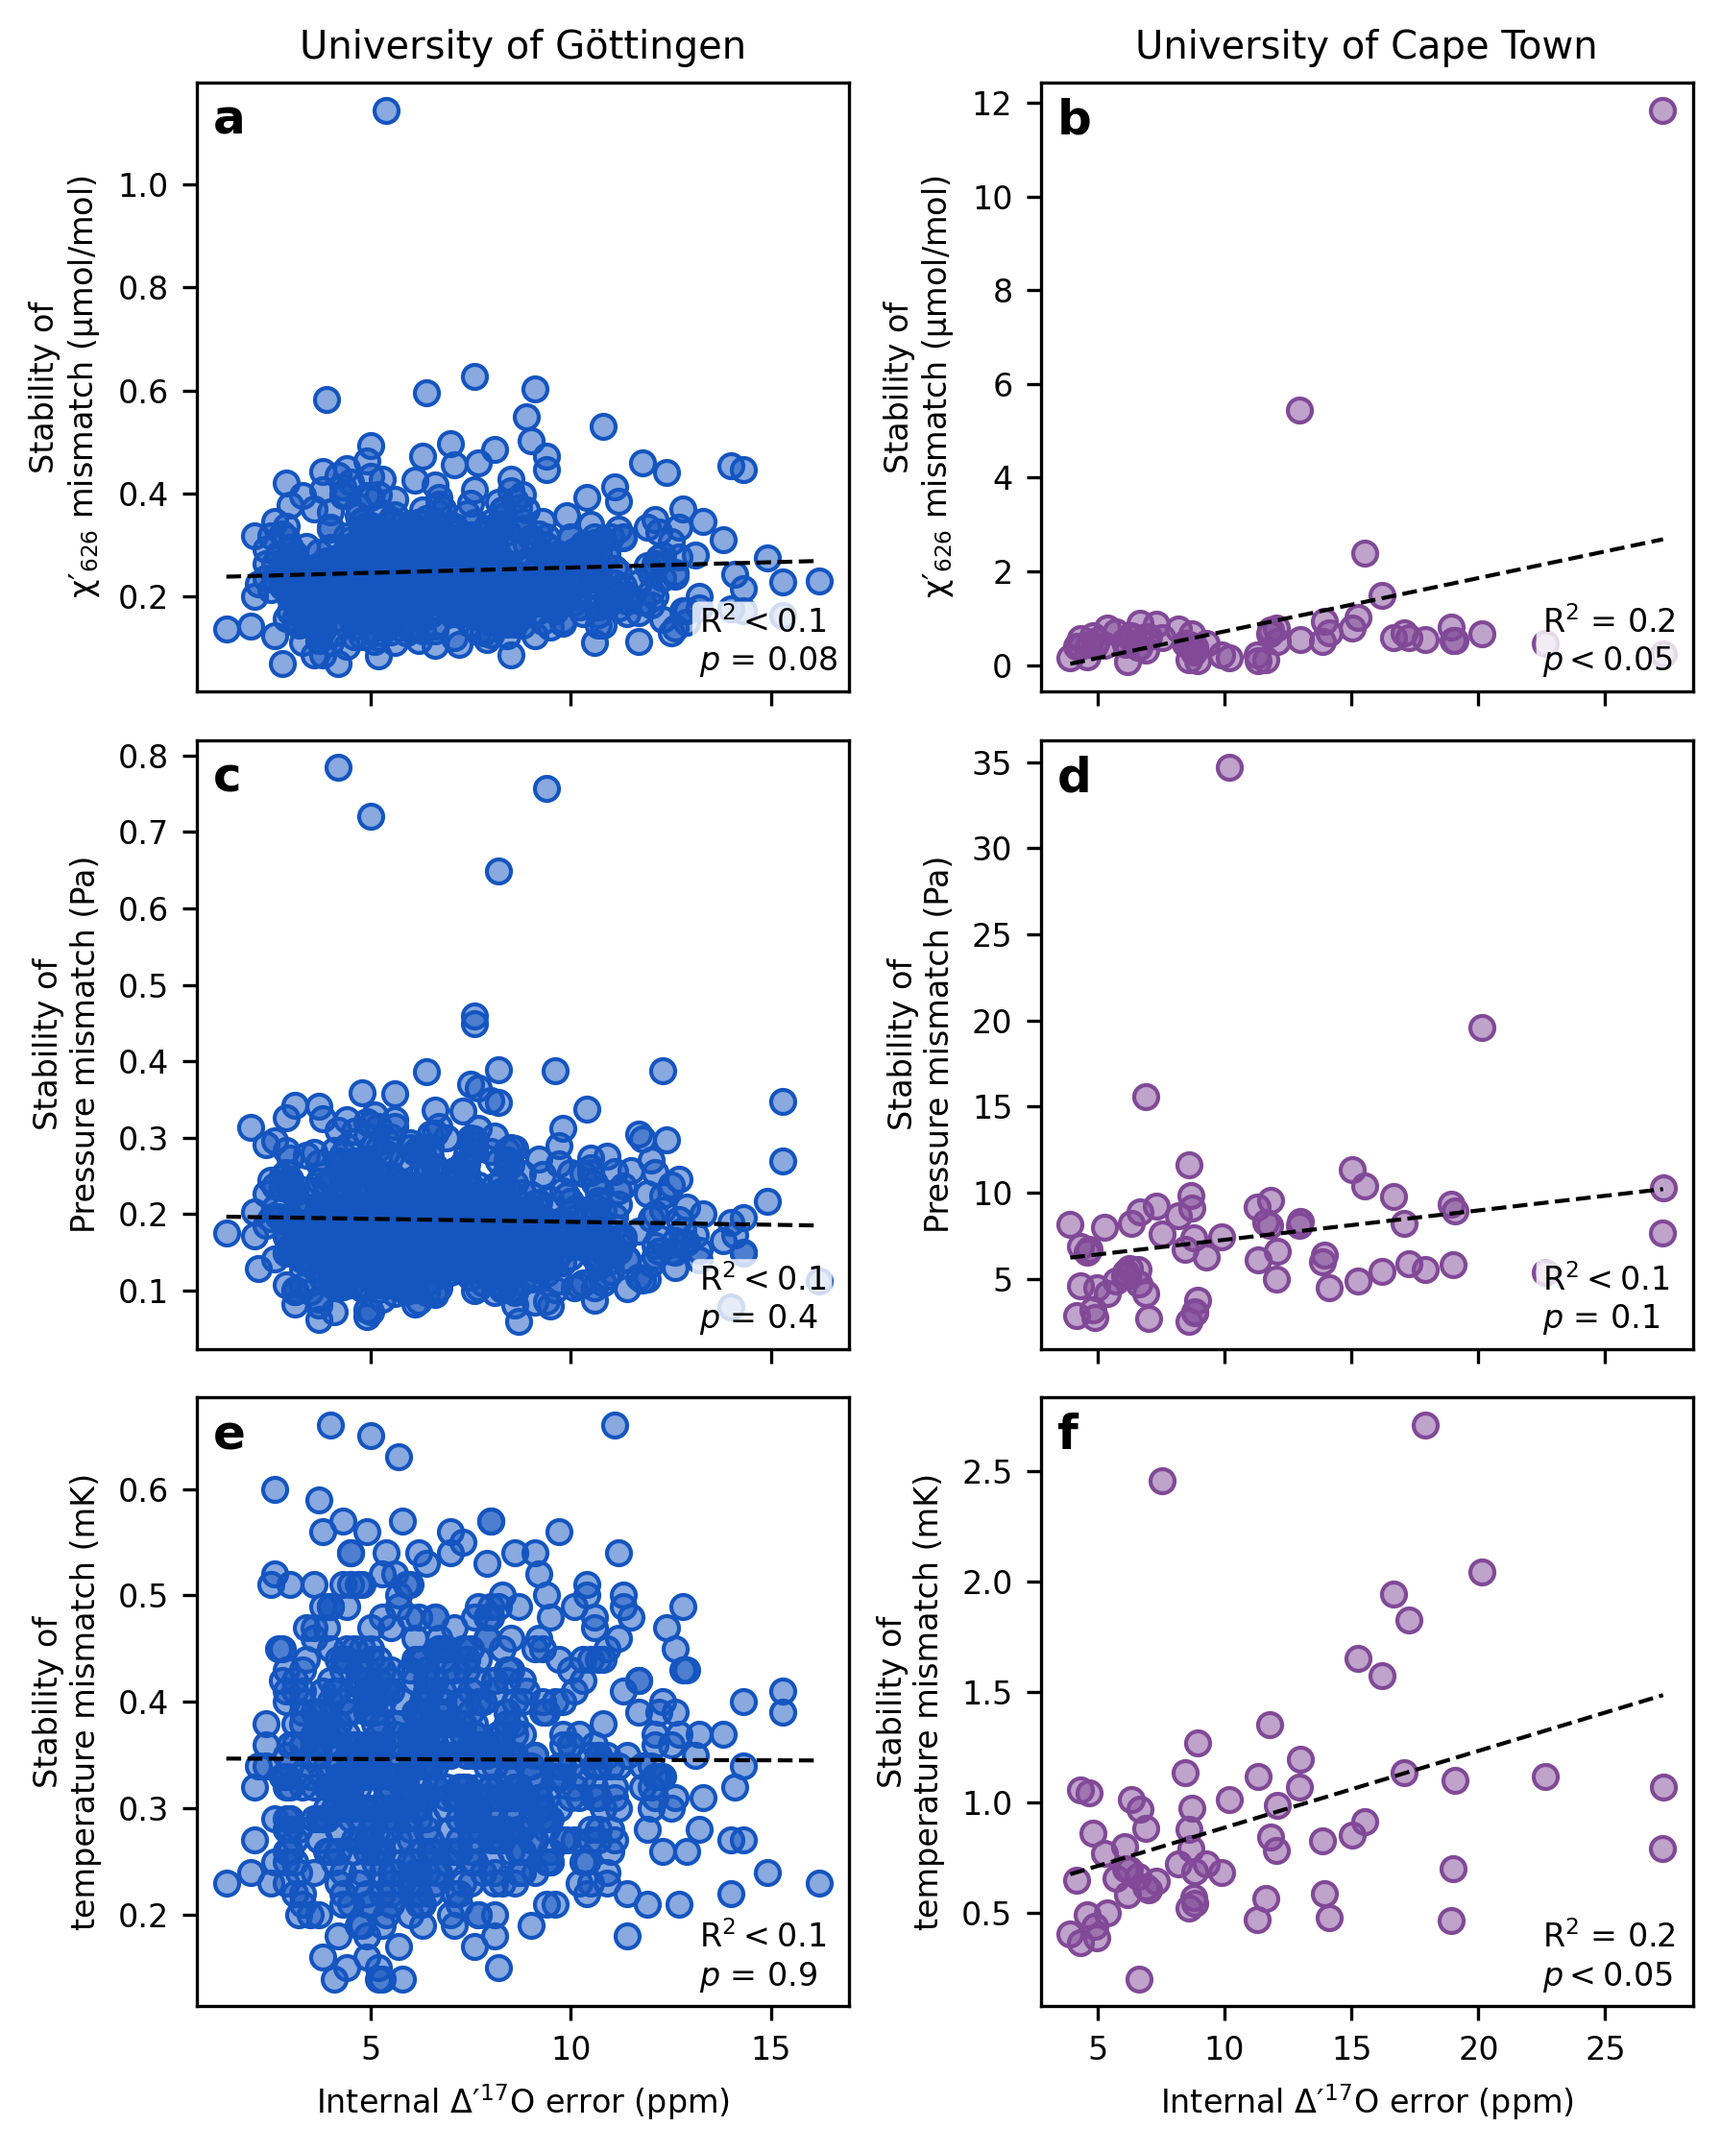
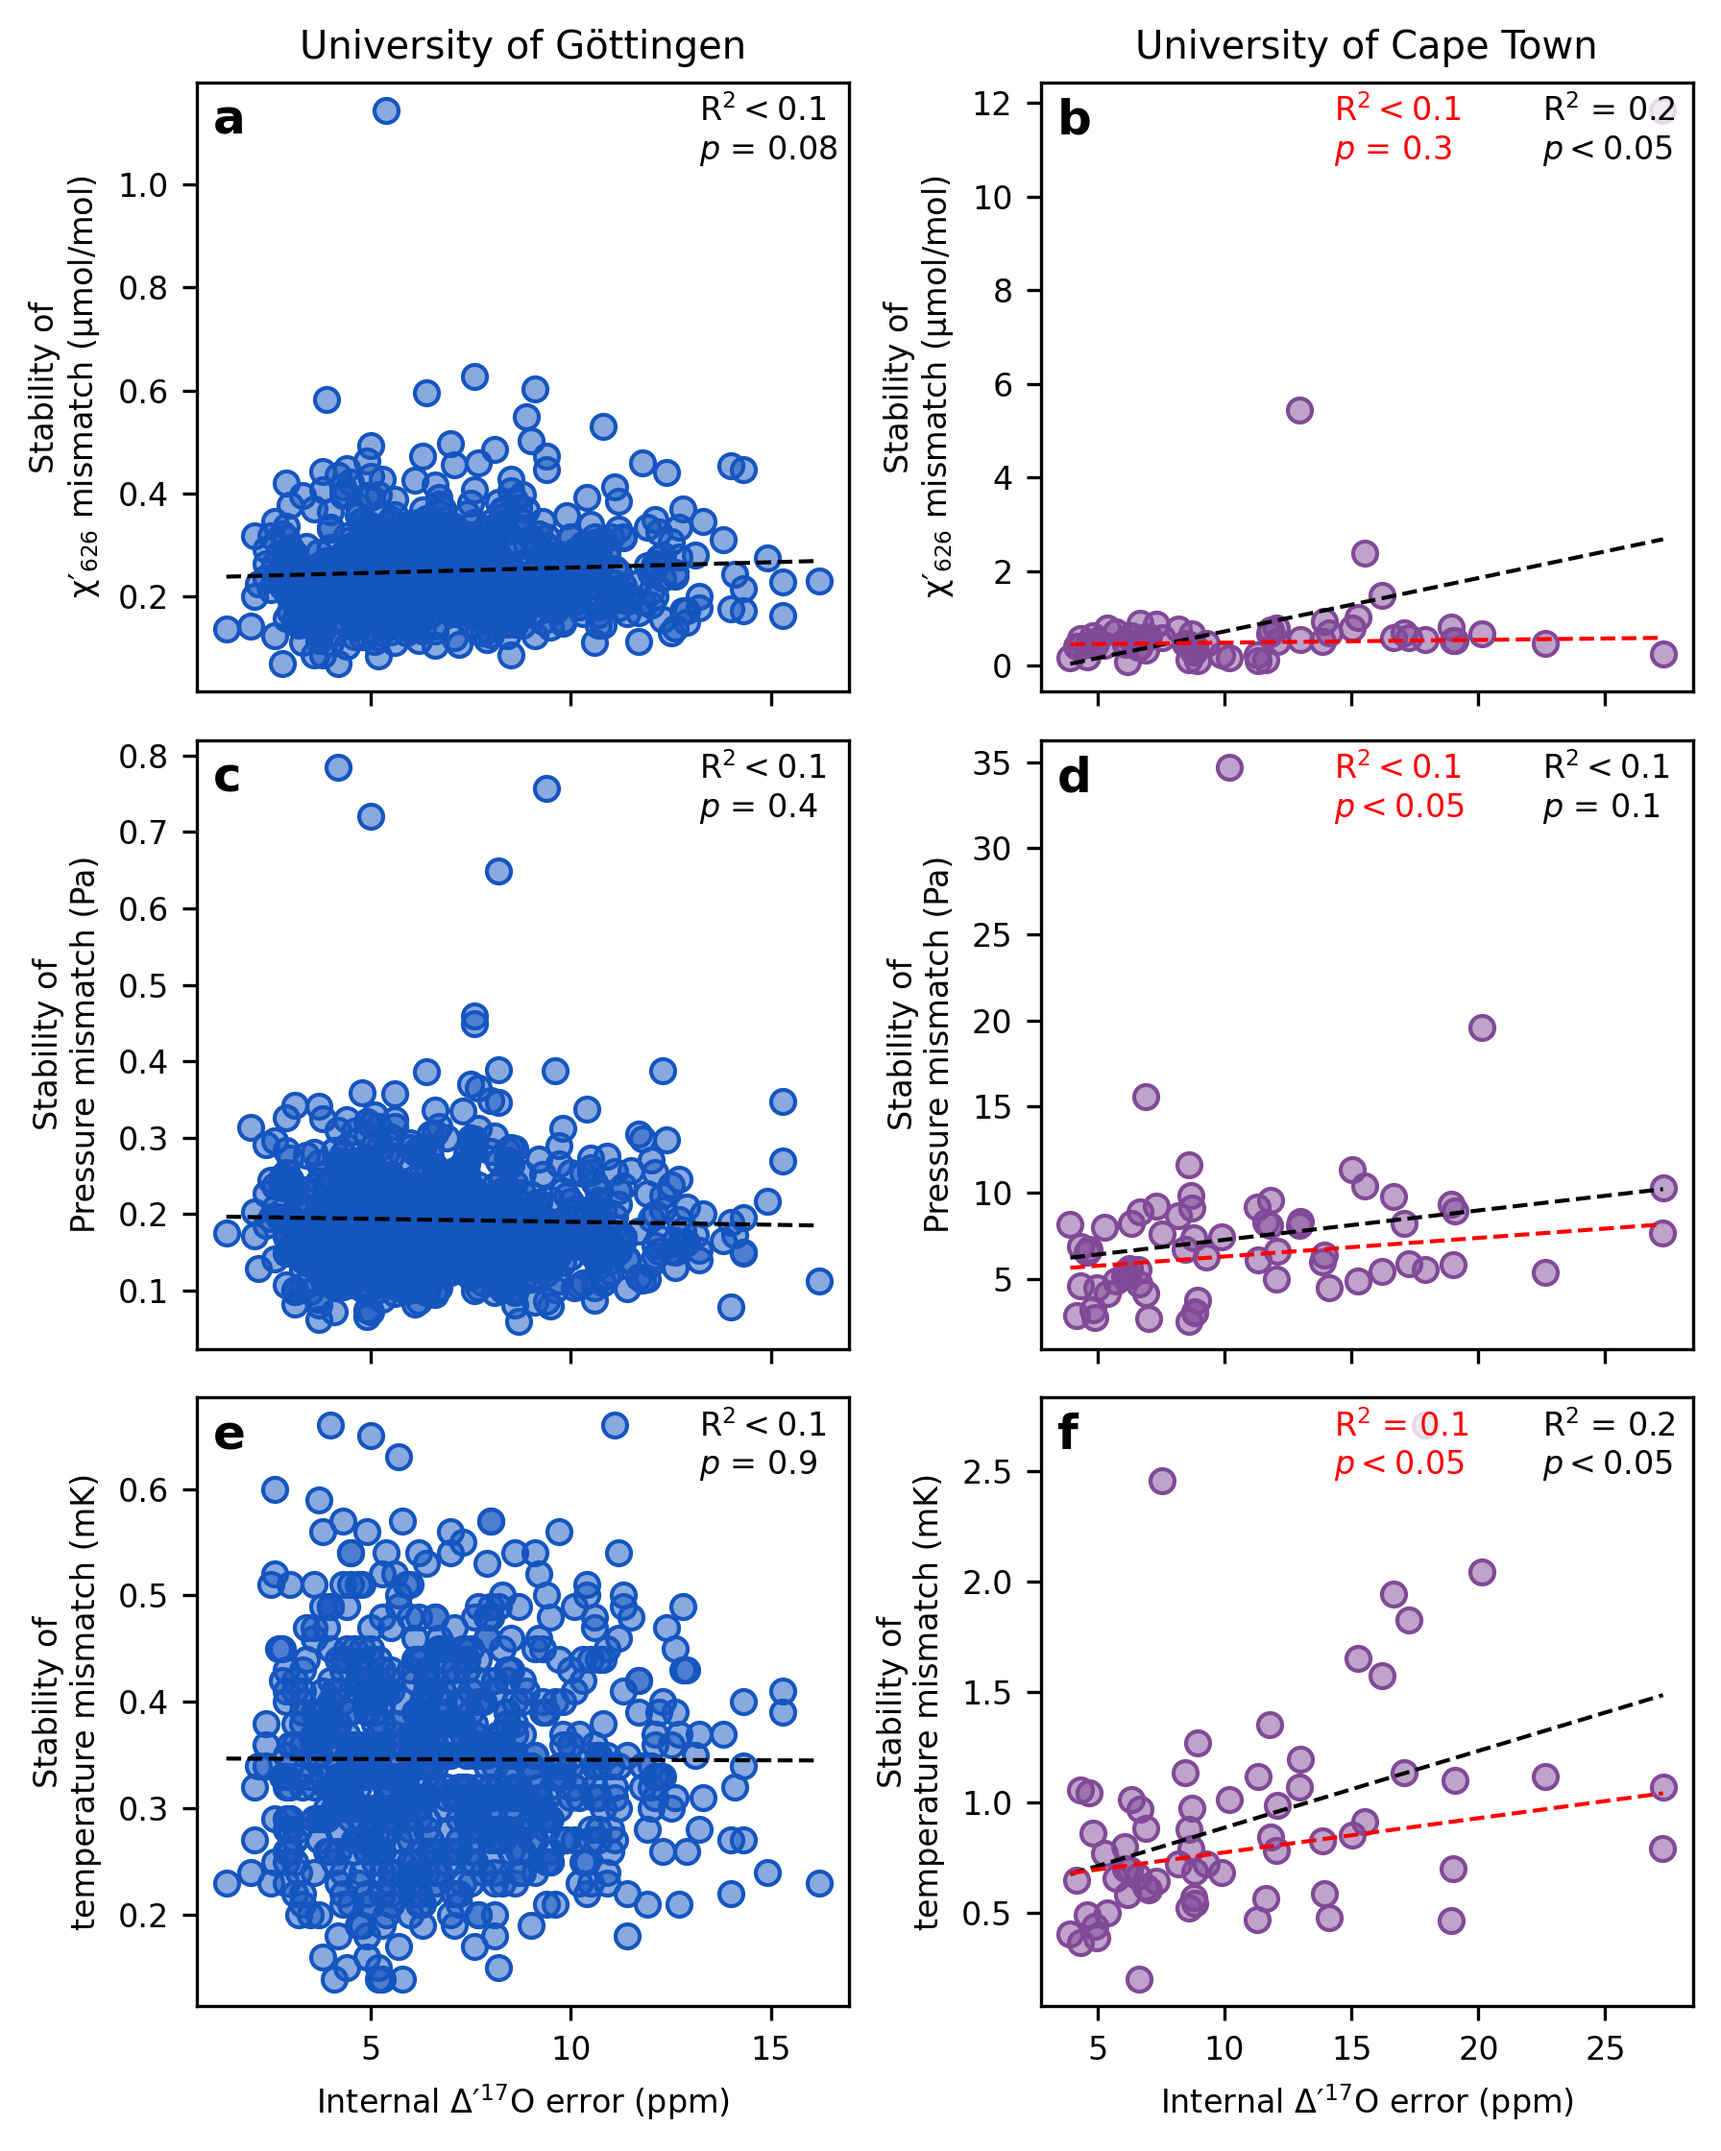
after coffee

diff --git a/codes/LT 3 lab stability.py b/codes/LT 3 lab stability.py
@@ -190,34 +190,77 @@ def add_linfit_and_stats(ax, x, y):
         p_str = r"$\it{p}$ = " + f"{p_value:.1g}"
 
     txt = f"{R2_str}\n{p_str}"
-    ax.text(0.77, 0.02, txt, transform=ax.transAxes,
-            va='bottom', ha='left', color="k",
+    ax.text(0.77, 0.98, txt, transform=ax.transAxes,
+            va='top', ha='left', color="k",
             bbox=dict(fc='white', alpha=0.8, ec='none', pad=0.2, boxstyle='round'))
 
 
+def add_linfit_and_stats_95(ax, x, y):
+
+    # Filter values to 95% in y
+    mask = y <= np.nanpercentile(y, 90)
+    x = x[mask]
+    y = y[mask]
+
+    # Linear fit
+    slope, intercept, r_value, p_value, std_err = linregress(x, y)
+    xx = np.array([np.nanmin(x), np.nanmax(x)])
+    yy = slope * xx + intercept
+    ax.plot(xx, yy, ls="--", c="r")
+    R2_val = r_value**2
+    if R2_val >= 0.1:
+        R2_str = r"$R^2$ = " + f"{R2_val:.1g}"
+    else:
+        R2_str = r"$R^2 < 0.1$"
+
+    if p_value < 0.05:
+        p_str = r"$\it{p} < 0.05$"
+    else:
+        p_str = r"$\it{p}$ = " + f"{p_value:.1g}"
+
+    txt = f"{R2_str}\n{p_str}"
+    ax.text(0.45, 0.98, txt, transform=ax.transAxes,
+            va='top', ha='left', color="r",
+            bbox=dict(fc='white', alpha=0.8, ec='none', pad=0.2, boxstyle='round'))
+    
+    print(f"90% filtered data maximum value: {y.max():.1f}")
+
+
+
+# Left column - Göttingen
 axes[0].scatter(df_ug['Dp17O_error'], df_ug['pCO2Mismatch_error'], 
                 facecolor="#1455C080", ec="#1455C0")
 add_linfit_and_stats(axes[0], df_ug['Dp17O_error'], df_ug['pCO2Mismatch_error'])
+print(f"UG, maximum x626 mismatch stability: {df_ug['pCO2Mismatch_error'].max():.1f} µmol/mol\n")
 
 axes[2].scatter(df_ug['Dp17O_error'], torr_to_pascal(df_ug['PCellMismatch_error']), 
                 facecolor="#1455C080", ec="#1455C0")
 add_linfit_and_stats(axes[2], df_ug['Dp17O_error'], torr_to_pascal(df_ug['PCellMismatch_error']))
+print(f"UG, maximum pressure mismatch stability: {torr_to_pascal(df_ug['PCellMismatch_error']).max():.1f} Pa, {df_ug['PCellMismatch_error'].max()*1000:.1f} mTorr\n")
 
 axes[4].scatter(df_ug['Dp17O_error'], df_ug['TCellMismatch_error']*1000, 
                 facecolor="#1455C080", ec="#1455C0")
 add_linfit_and_stats(axes[4], df_ug['Dp17O_error'], df_ug['TCellMismatch_error']*1000)
+print(f"UG, maximum temperature mismatch stability: {df_ug['TCellMismatch_error'].max()*1000:.0f} mK\n")
 
+# Right column - Cape Town
 axes[1].scatter(df_uct['Dp17O_error'], df_uct['std_mismatch_Xp626_L2']/1000, 
                 fc="#81499780", ec="#814997")
 add_linfit_and_stats(axes[1], df_uct['Dp17O_error'], df_uct['std_mismatch_Xp626_L2']/1000)
+add_linfit_and_stats_95(axes[1], df_uct['Dp17O_error'], df_uct['std_mismatch_Xp626_L2']/1000)
+print(f"UCT, maximum x626 mismatch stability: {df_uct['std_mismatch_Xp626_L2'].max()/1000:.1f} µmol/mol\n")
 
 axes[3].scatter(df_uct['Dp17O_error'], torr_to_pascal(df_uct['std_mismatch_Praw']), 
                 fc="#81499780", ec="#814997")
 add_linfit_and_stats(axes[3], df_uct['Dp17O_error'], torr_to_pascal(df_uct['std_mismatch_Praw']))
+add_linfit_and_stats_95(axes[3], df_uct['Dp17O_error'], torr_to_pascal(df_uct['std_mismatch_Praw']))
+print(f"UCT, maximum pressure mismatch stability: {torr_to_pascal(df_uct['std_mismatch_Praw']).max():.1f} Pa, {df_uct['std_mismatch_Praw'].max()*1000:.1f} mTorr\n")
 
 axes[5].scatter(df_uct['Dp17O_error'], df_uct['std_mismatch_Traw']*1000, 
                 fc="#81499780", ec="#814997")
 add_linfit_and_stats(axes[5], df_uct['Dp17O_error'], df_uct['std_mismatch_Traw']*1000)
+add_linfit_and_stats_95(axes[5], df_uct['Dp17O_error'], df_uct['std_mismatch_Traw']*1000)
+print(f"UCT, maximum temperature mismatch stability: {df_uct['std_mismatch_Traw'].max()*1000:.0f} mK\n")
 
 # ax.set_xlabel("devmean_chi_p_626")
 axes[4].set_xlabel("Internal $\Delta\prime^{17}O$ error (ppm)")

diff --git a/codes/LT 7 plot standards.py b/codes/LT 7 plot standards.py
@@ -38,7 +38,7 @@ figures_dir = os.path.join(script_dir, '../figures')
 plt.rcParams.update({"font.size": 8})
 plt.rcParams["patch.linewidth"] = 0.5
 plt.rcParams['lines.linewidth'] = 0.5
-plt.rcParams["savefig.dpi"] = 800
+plt.rcParams["savefig.dpi"] = 300
 plt.rcParams["savefig.bbox"] = "tight"
 plt.rcParams['savefig.transparent'] = False
 plt.rcParams['mathtext.default'] = 'regular'
